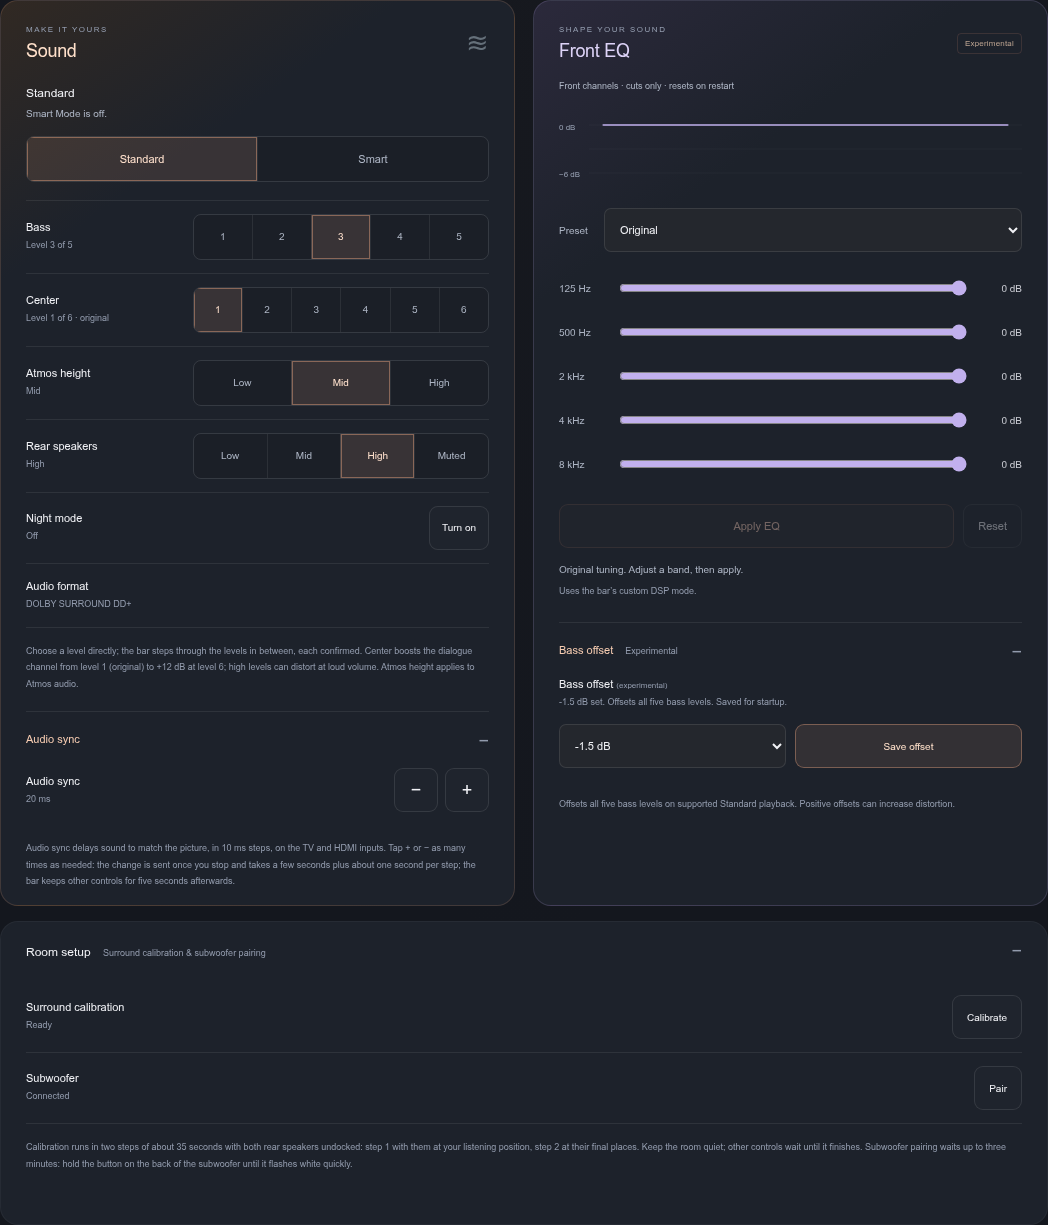
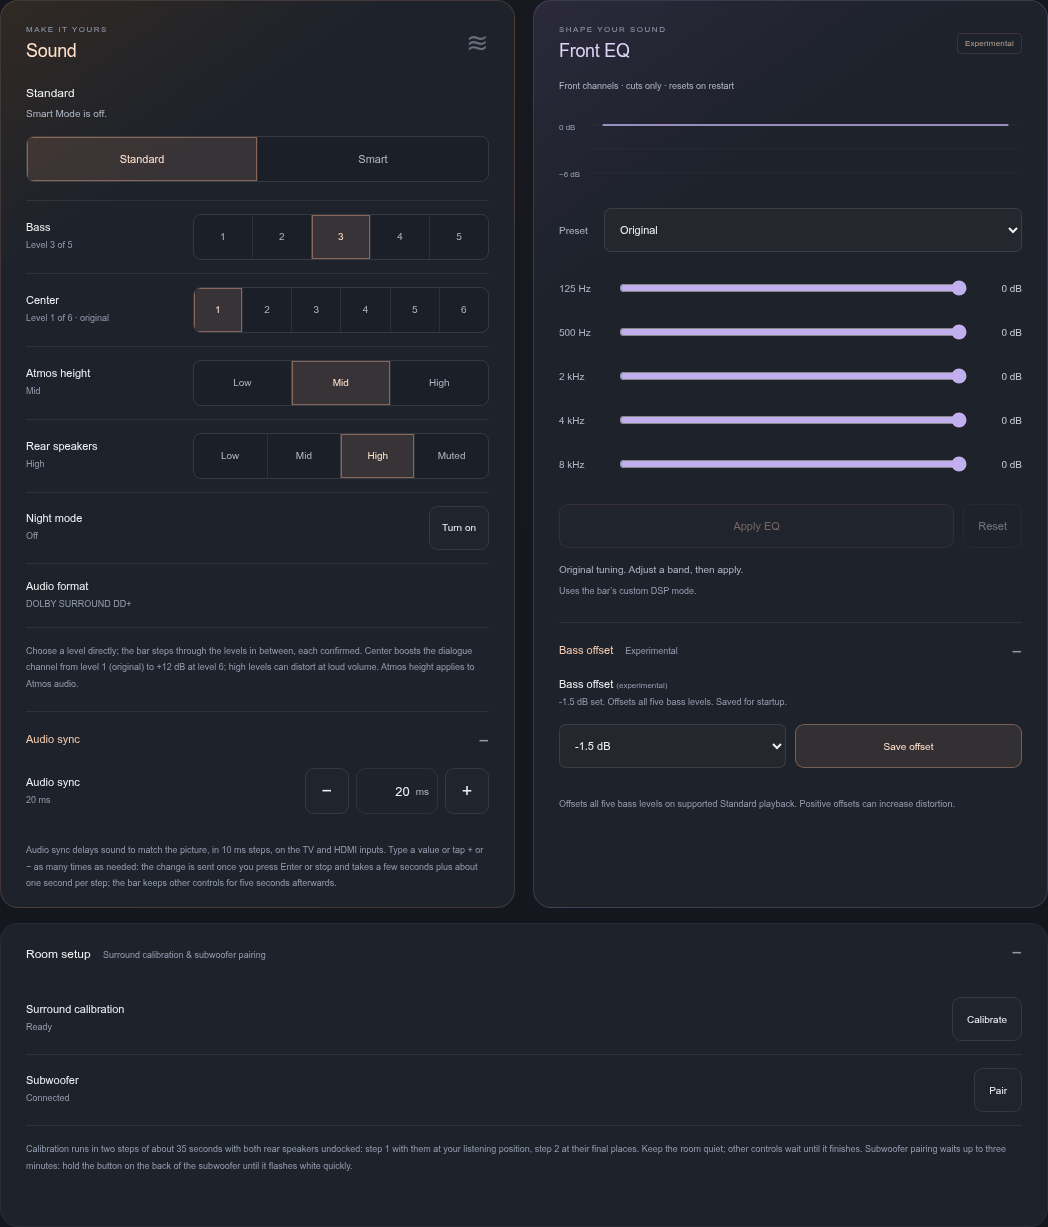
fix(setup): preserve saved ports and CI guidance
Retain a configured web port when applying settings. Point development downloads at the self-contained offline bundle. Verify the merged audio-sync input meets touch targets and refresh production screenshots.

diff --git a/apps/remote/www/style.css b/apps/remote/www/style.css
@@ -127,6 +127,6 @@ input[type=range]{height:44px}
 .connection[data-state=connecting]:before{background:var(--subtle)}
 
 /* Typed audio delay from the shared upstream control. */
-.sync-field{display:flex;align-items:center;gap:4px;min-height:44px;padding:0 8px;border:1px solid var(--line);border-radius:10px;font-size:10px;color:var(--muted)}.sync-field:focus-within{border-color:var(--orange)}.sync-field input{width:3.6em;min-height:42px;border:0;background:transparent;color:var(--text);font:inherit;font-size:13px;text-align:right;-moz-appearance:textfield;appearance:textfield}.sync-field input::-webkit-inner-spin-button,.sync-field input::-webkit-outer-spin-button{-webkit-appearance:none;margin:0}.sync-field input:focus{outline:none}.sync-field:has(input:disabled){opacity:.38}
+.sync-field{display:flex;align-items:center;gap:4px;min-height:44px;padding:0 8px;border:1px solid var(--line);border-radius:10px;font-size:10px;color:var(--muted)}.sync-field:focus-within{border-color:var(--orange)}.sync-field input{width:3.6em;min-height:44px;border:0;background:transparent;color:var(--text);font:inherit;font-size:13px;text-align:right;-moz-appearance:textfield;appearance:textfield}.sync-field input::-webkit-inner-spin-button,.sync-field input::-webkit-outer-spin-button{-webkit-appearance:none;margin:0}.sync-field input:focus{outline:none}.sync-field:has(input:disabled){opacity:.38}
 .sync-row{flex-wrap:wrap}.sync-row>.stepper{flex:0 0 auto}
 @media(max-width:759px){.sync-row>.stepper{flex:1 1 100%}.sync-row .sync-field{flex:1;justify-content:center}}

diff --git a/packaging/setup.js b/packaging/setup.js
@@ -67,11 +67,13 @@
   }
   async function configuration(settings) {
     const allowed = subnet(settings.address, settings.prefix);
+    const port = Number(settings.port ?? 80);
+    if (!Number.isInteger(port) || !(port === 80 || port >= 1024 && port <= 65535 && port !== 2222)) throw Error("Web port must be 80 or 1024–65535, excluding SSH port 2222.");
     if (!["check","install","verify","configure","uninstall","migrate","update"].includes(settings.action)) throw Error("Unknown action.");
     const lines = ["# Private local JBL Bar 9.1 configuration", "format=1", "action=" + settings.action,
       "ssh=" + !!settings.ssh, "web_remote=" + !!settings.web, "auto_standard=" + !!settings.standard,
       "smart_mode_memory=" + !!(settings.standard && settings.memory),
-      "allowed_cidr=" + allowed, "web_port=80"];
+      "allowed_cidr=" + allowed, "web_port=" + port];
     if (settings.ssh) lines.push("ssh_password_hash=" + await passwordHash(settings.password));
     if (settings.ssid || settings.wifiPassword) {
       const wifi = await wifiCredentials(settings.ssid, settings.wifiPassword);

diff --git a/packaging/wizard/app.js b/packaging/wizard/app.js
@@ -254,6 +254,7 @@
       let config = await JBLSetup.configuration({
         address: $("address").value,
         prefix: $("prefix").value,
+        port: selected.config?.web_port ?? 80,
         action: $("action").value,
         web: $("web").checked,
         ssh: $("ssh").checked && !keepSSH,

diff --git a/internal/usbsetup/setup_test.go b/internal/usbsetup/setup_test.go
@@ -246,6 +246,28 @@ func TestReconnectAndSavedSSH(t *testing.T) {
 		t.Fatal("drive listing leaked saved credentials")
 	}
 }
+func TestDriveListingPreservesCustomWebPort(t *testing.T) {
+	s, d := testServer(t)
+	p, err := LoadPackage(s.PackagePath)
+	if err != nil {
+		t.Fatal(err)
+	}
+	root, err := os.OpenRoot(d.Mount)
+	if err != nil {
+		t.Fatal(err)
+	}
+	defer root.Close()
+	if err := p.Apply(root, strings.Replace(testConfig, "web_port=80", "web_port=8080", 1)); err != nil {
+		t.Fatal(err)
+	}
+	w := call(s, "GET", "/api/drives", nil, true)
+	var rows []struct {
+		Config map[string]string `json:"config"`
+	}
+	if w.Code != 200 || json.Unmarshal(w.Body.Bytes(), &rows) != nil || len(rows) != 1 || rows[0].Config["web_port"] != "8080" {
+		t.Fatalf("custom port missing from drive listing: %s", w.Body.String())
+	}
+}
 func TestLinuxDiscovery(t *testing.T) {
 	data := []byte(`{"blockdevices":[{"name":"/dev/sda","type":"disk","tran":"usb","rm":true,"ro":false,"size":8000000000,"serial":"one","pttype":"dos","log-sec":512,"children":[{"name":"/dev/sda1","type":"part","partn":1,"fstype":"vfat","fsver":"FAT32","mountpoints":["/media/user/USB"]}]},{"name":"/dev/sdb","type":"disk","tran":"usb","rm":true,"size":8000000000,"log-sec":512,"children":[{"mountpoints":["/"]}]},{"name":"/dev/nvme0n1","type":"disk","tran":"nvme","rm":false}]}`)
 	ds, e := linuxDrives(data)

diff --git a/internal/usbsetup/server.go b/internal/usbsetup/server.go
@@ -138,7 +138,7 @@ func (s *Server) ServeHTTP(w http.ResponseWriter, r *http.Request) {
 						if b, e := readConfig(root); e == nil {
 							if cfg, e := ParseConfig(string(b)); e == nil {
 								pub := map[string]string{}
-								for _, key := range []string{"action", "ssh", "web_remote", "auto_standard", "smart_mode_memory", "allowed_cidr"} {
+								for _, key := range []string{"action", "ssh", "web_remote", "auto_standard", "smart_mode_memory", "allowed_cidr", "web_port"} {
 									pub[key] = cfg[key]
 								}
 								row["config"] = pub

diff --git a/apps/usbsetup/main.go b/apps/usbsetup/main.go
@@ -1,4 +1,4 @@
-// Portable local USB setup. Run from the repo: go run ./apps/usbsetup
+// Portable local USB setup. Run from the repo: go run ./apps/usbsetup --repo .
 package main
 
 import (

diff --git a/README.md b/README.md
@@ -68,7 +68,8 @@ to this tool rather than generating a file for you to move manually.
 **No toolkit release available yet?** Development packages are under **Artifacts** on a
 successful [Test and package toolkit run](https://github.com/kisinga/jbl-bar-toolkit/actions/workflows/package.yml).
 Sign in to GitHub and download **jbl-bar-toolkit-usb-development**. Extract
-GitHub's outer ZIP first, then run the setup executable for your platform inside. These downloads expire after 30 days.
+GitHub's outer ZIP, then extract the matching `…-setup-OS-ARCH.zip` offline bundle.
+Run its executable beside the included toolkit/recovery ZIPs. These downloads expire after 30 days.
 
 ## Update later
 
